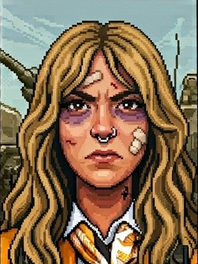
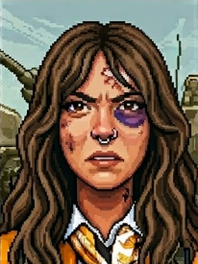
Selección: nueva cara de batalla de Albana
- images/retro-albana-elegido.png: la imagen que pasó Kevin, con el pelo
  castaño como su retrato normal, recortada con el mismo encuadre
- ?v=2 en la ruta para que no quede la versión rubia en caché

Claude-Session: https://claude.ai/code/session_01LDd3oiSCiN4GwbPhGVjuQz

diff --git a/personajes.js b/personajes.js
@@ -35,7 +35,7 @@ const EQUIPO = [
   { key: 'agustina', label: 'Agustina Castillo', puesto: 'Selector Jr', frase: 'La creativa', color: '#cc2f2f', retrato: 'images/retro-agustina.png', retratoElegido: 'images/retro-agustina-elegido.png', arte: 'images/tortuga-agustina.jpg', personaje: 'tortuga', arma: 'sai', selectores: ['Agustina'] },
   { key: 'rafael', label: 'Rafael Barberi', puesto: 'Selector Jr', frase: 'El compañero confiable', color: '#e2721f', retrato: 'images/retro-rafael.png', retratoElegido: 'images/retro-rafael-elegido.png', arte: 'images/tortuga-rafael.jpg', personaje: 'tortuga', arma: 'nunchaku', selectores: ['Rafael'] },
   { key: 'gustavo', label: 'Gustavo Sotelo', puesto: 'Selector Jr', frase: 'El más versátil', color: '#4f8fc9', retrato: 'images/retro-gustavo.png', retratoElegido: 'images/retro-gustavo-elegido.png', arte: 'images/tortuga-gustavo.jpg', personaje: 'tortuga', arma: 'katana', selectores: ['Gustavo'] },
-  { key: 'albana', label: 'Albana Pais', puesto: 'Selectora Jr', frase: 'La estructurada', color: '#d4a017', retrato: 'images/retro-albana.png', retratoElegido: 'images/retro-albana-elegido.png', arte: 'images/tortuga-albana2.jpg', personaje: 'april', selectores: ['Albana'] },
+  { key: 'albana', label: 'Albana Pais', puesto: 'Selectora Jr', frase: 'La estructurada', color: '#d4a017', retrato: 'images/retro-albana.png', retratoElegido: 'images/retro-albana-elegido.png?v=2', arte: 'images/tortuga-albana2.jpg', personaje: 'april', selectores: ['Albana'] },
   { key: 'otros', label: 'Otros', puesto: 'Selectores adicionales', frase: 'Los que caminaron en el infierno y no salieron', color: '#a9714a', arte: 'images/muertos en el camino.jpg', personaje: 'fantasma', selectores: ['Emiliano', 'Mariano', 'Facundo', 'Alexis', 'Agustin Monte', 'Luana', 'Araceli', 'Giselle', 'Balbina'] },
 ];
 EQUIPO.forEach((m) => { m.dashboard = m.dashboard || `dashboard.html?miembro=${m.key}`; });

diff --git a/personajes.html b/personajes.html
@@ -84,6 +84,6 @@
 
 <script src="data.js?v=20261019"></script>
 <script src="competencias.js?v=20260819b"></script>
-<script type="module" src="personajes.js?v=20261019h"></script>
+<script type="module" src="personajes.js?v=20261019i"></script>
 </body>
 </html>
